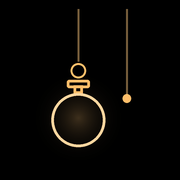
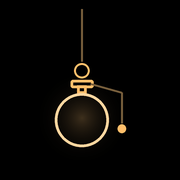
fix: 修掉三个真 bug，并按反馈调整图标与桌面端动画
## Bug 修复（都有回归测试）

1. validateWindow 误判合法时段
   判定条件写成了「结束时间必须早于开始时间」，把「不跨午夜」和「白天时段」
   混为一谈。于是 00:30→07:00、01:00→08:00、00:00→07:00 这些完全正常的配置
   全被判非法（引擎其实跑得好好的，但设置页会弹错误的报错）。
   改为：只有【从白天开始】的不跨午夜时段才拒绝。

2. 忘记密码重置会把每周额度一起刷满
   settlePasswordReset 顺带调了 quotaStore.reset，等于每 24 小时白送 2 次紧急解除，
   把 PRD 2.1.3 的「每周 2 次」从 2 次/周放大到约 14 次/周 —— 这条机制被彻底架空，
   「防止靠重置免费越狱」的设计反而自己开了后门。
   改为：只清空密码，不碰额度。

3. 重置申请期间，密码正确也解除不了，而且取消不掉
   emergencyUnlock 里的 pending 检查排在密码校验之前，用户误点「忘记密码」后
   即使密码记得清清楚楚也要干等 24 小时。改为先验密码，验过了就撤销申请。

4. release/使用说明.txt 被跟踪，但 .gitignore 又忽略了 release/
   规则与事实矛盾，导致以后谁都没法正常更新它。移到 platforms/desktop/ 下。

上面这三个测试原本是「通过」的 —— 因为它们把错误行为固化成了预期断言。已一并改正。

## 图标：让拉绳和灯座连起来

之前右侧是一根与灯泡毫无接触的悬空竖线，读起来像渲染残留而非设计元素，
在 64px 的 favicon 上更是只剩一道噪点。
改为「灯座右缘 → 斜向右下 → 垂直垂下 → 圆坠」，一眼能看出这是这盏灯的拉绳。
圆坠也外移，不再压在灯泡轮廓上。

## 桌面端动画

- 灯泡从实心白圆改成描边 + 柔和内晕，与 Web 版一致（PRD 4.2 的线性风格）
- 补齐拉环与方形灯座，两端视觉统一
- 拉绳兜底 60 秒 → 10 秒：保留仪式感，但不至于让人盯着倒计时干等
- 新增 --preview [秒数] 命令行入口，便于快速查看动画（也便于截图验证）

## 背景图压缩

6 张背景图均为 RGB 无透明通道的照片类内容，PNG 存它们效率极低。
转为 JPEG（≤1920 宽，q85，4:4:4，避免星空细点被糊掉）：5.05 MB → 2.54 MB。

## 验证

- 单元测试 128 项通过（新增 1 项针对 validateWindow 的回归测试）
- 静态检查通过（198 个文件）
- Web 构建通过
- 桌面端构建 0 警告 0 错误；--selftest 266 项断言通过
- 实际截图确认：桌面端灯泡已是描边线性风格；JPEG 背景在运行时能正常加载

Changed region(s): [[0.2778, 0.0278, 0.75, 0.8333]]

diff --git a/tests/sunday-reset.test.js b/tests/sunday-reset.test.js
@@ -13,6 +13,7 @@ import {
   createQuotaStore,
   createSettingsStore,
   dayTypeOf,
+  hashPassword,
   PASSWORD_RESET_COOLDOWN_MS,
   phaseAt,
 } from "../packages/core/src/index.js";
@@ -78,17 +79,34 @@ describe("engine · 忘记密码 24 小时重置冷却", () => {
     return { settingsStore, quotaStore, engine };
   }
 
-  test("申请重置后进入冷却，期间无法紧急解除", async () => {
-    const { settingsStore, quotaStore, engine } = makeEngine();
-    settingsStore.update({ plan: { enabled: true }, emergency: { quotaTotal: 2 } });
+  test("申请重置期间：密码错误仍被拒，密码正确则解除并撤销申请", async () => {
+    // 回归：早先把 pending 检查放在密码校验**之前**，导致误点「忘记密码」的用户
+    // 即使密码记得清清楚楚也要干等 24 小时，而且没有任何取消入口。
+    // 正确行为是：先验密码，验过了就把重置申请撤掉。
+    const settingsStore = createSettingsStore({ storage: createMemoryStorage() });
+    const passwordHash = await hashPassword("1234");
+    settingsStore.update({
+      plan: { enabled: true, sundayAsWeekday: true, windows: { weekday: { start: "22:00", end: "07:00" }, weekend: { start: "01:00", end: "07:00" } } },
+      emergency: { passwordHash, quotaTotal: 2 },
+    });
+    const quotaStore = createQuotaStore({ storage: settingsStore.storage });
     // 2026-10-12 是周一，22:00–07:00 时段生效
+    const engine = createEngine({ settingsStore, quotaStore, now: () => at(2026, 10, 12, 23, 30) });
+
     const info = engine.requestPasswordReset();
     assert.equal(info.pending, true);
     assert.equal(info.remainingMs, PASSWORD_RESET_COOLDOWN_MS);
 
-    const result = await engine.emergencyUnlock("wrong");
-    assert.equal(result.ok, false);
-    assert.equal(result.reason, "reset-pending");
+    // 密码错误 → 被拒，且申请仍然保留（不能靠乱试密码把申请刷掉）
+    const wrong = await engine.emergencyUnlock("0000");
+    assert.equal(wrong.ok, false);
+    assert.equal(wrong.reason, "bad-password");
+    assert.equal(engine.passwordResetInfo().pending, true);
+
+    // 密码正确 → 解除成功，并顺带撤销重置申请
+    const right = await engine.emergencyUnlock("1234");
+    assert.equal(right.ok, true);
+    assert.equal(engine.passwordResetInfo().pending, false);
   });
 
   test("冷却期内重复申请不重置计时", () => {
@@ -99,7 +117,7 @@ describe("engine · 忘记密码 24 小时重置冷却", () => {
     assert.equal(again.remainingMs, PASSWORD_RESET_COOLDOWN_MS);
   });
 
-  test("冷却到期后自动清空密码并重置本周额度", () => {
+  test("冷却到期后只清空密码，不碰每周额度（回归：额度曾被刷满）", () => {
     const { settingsStore, quotaStore, engine } = makeEngine();
     settingsStore.update({ plan: { enabled: false } });
 
@@ -118,8 +136,10 @@ describe("engine · 忘记密码 24 小时重置冷却", () => {
     assert.equal(info.pending, false);
     assert.equal(settingsStore.value.emergency.passwordHash, "");
     assert.equal(settingsStore.value.emergency.passwordResetAt, null);
-    // 本周额度已被重置回满
-    assert.equal(quotaStore.remaining(at(2026, 10, 12, 23, 30)), 2);
+    // 关键断言：额度**没有**被刷回去。
+    // 早先 settlePasswordReset 顺带调了 quotaStore.reset，等于每 24 小时白送 2 次解除，
+    // 把 PRD 2.1.3 的「每周 2 次」从 2 次/周放大到约 14 次/周，机制被架空。
+    assert.equal(quotaStore.remaining(at(2026, 10, 12, 23, 30)), 1);
   });
 
   test("正常快照包含 passwordReset 状态", () => {

diff --git a/packages/core/src/engine.js b/packages/core/src/engine.js
@@ -33,11 +33,18 @@ export function createEngine({ settingsStore, quotaStore, now = () => new Date()
   /** AI 生成的文案，优先级高于本地轮播 */
   let aiText = null;
 
-  // ── 忘记密码兜底（PRD 增强）：等待 24 小时重置密码与本周额度 ──
+  // ── 忘记密码兜底（PRD 增强）：等待 24 小时后重置密码 ──
 
   /**
-   * 惰性结算：若重置申请已过 24 小时冷却，则清空密码、重置本周额度、清除申请。
+   * 惰性结算：若重置申请已过 24 小时冷却，则清空密码并清除申请。
    * 在快照与解除入口处都会被调用，保证"到期即生效"不依赖额外定时器。
+   *
+   * ⚠ 这里**刻意不动每周额度**。
+   * 早先的实现顺带调了 `quotaStore.reset(at)`，等于每 24 小时白送 2 次紧急解除，
+   * 把 PRD 2.1.3 的「每周 2 次」从 2 次/周放大到约 14 次/周，这条机制被彻底架空
+   * ——「防止靠重置免费越狱」的设计反而自己开了后门。
+   * 忘记密码只是拿回「设置新密码」的能力，额度该扣的已经扣了。
+   *
    * @returns {boolean} 是否刚完成了一次结算。
    */
   function settlePasswordReset(at) {
@@ -46,7 +53,6 @@ export function createEngine({ settingsStore, quotaStore, now = () => new Date()
     if (at.getTime() - requestedAt < PASSWORD_RESET_COOLDOWN_MS) return false;
 
     settingsStore.update({ emergency: { passwordResetAt: null, passwordHash: "" } });
-    quotaStore.reset(at);
     return true;
   }
 
@@ -170,10 +176,7 @@ export function createEngine({ settingsStore, quotaStore, now = () => new Date()
      */
     async emergencyUnlock(password) {
       const settings = settingsStore.value;
-
       const at = now();
-      // 重置冷却期间禁止解除（否则"忘记密码"就成了免费越狱通道）
-      if (passwordResetInfo(at).pending) return { ok: false, reason: "reset-pending" };
 
       if (!settings.emergency.passwordHash) return { ok: false, reason: "no-password" };
 
@@ -186,6 +189,15 @@ export function createEngine({ settingsStore, quotaStore, now = () => new Date()
 
       const valid = await verifyPassword(password, settings.emergency.passwordHash);
       if (!valid) return { ok: false, reason: "bad-password" };
+
+      // 密码正确 → 说明用户其实记得密码，顺带撤销可能存在的重置申请。
+      //
+      // ⚠ 早先把 pending 检查放在密码校验**之前**，导致误点「忘记密码」的用户
+      // 即使密码记得清清楚楚也要干等 24 小时，而且没有任何取消入口。
+      // 现在的顺序是：先验密码，验过了就把申请撤掉。
+      if (settingsStore.value.emergency?.passwordResetAt) {
+        settingsStore.update({ emergency: { passwordResetAt: null } });
+      }
 
       const consumed = quotaStore.consume(at);
       if (!consumed.ok) return { ok: false, reason: "quota-exhausted" };
@@ -200,7 +212,7 @@ export function createEngine({ settingsStore, quotaStore, now = () => new Date()
       dismissedWindowKey = null;
     },
 
-    /** 忘记密码：申请 24 小时后重置密码与本周额度 */
+    /** 忘记密码：申请 24 小时后重置密码（不影响每周额度） */
     requestPasswordReset() {
       return requestPasswordReset(now());
     },

diff --git a/tests/core.test.js b/tests/core.test.js
@@ -261,9 +261,24 @@ describe("schedule · 睡眠计划与相位", () => {
     assert.deepEqual(validateWindow({ start: "23:00", end: "07:00" }), []);
     assert.equal(validateWindow({ start: "23:00", end: "23:00" }).length, 1);
     assert.ok(validateWindow({ start: "23:55", end: "00:05" })[0].includes("30 分钟"));
-    // 白天的非跨午夜时段必须被拒（熄灯本质是"晚上睡到早上"）
-    assert.ok(validateWindow({ start: "07:00", end: "12:00" })[0].includes("跨越午夜"));
+    // 白天开始的非跨午夜时段必须被拒（熄灯本质是"晚上睡到早上"）
+    assert.ok(validateWindow({ start: "07:00", end: "12:00" })[0].includes("夜间"));
     assert.ok(validateWindow({ start: "abc", end: "07:00" }).length > 0);
+  });
+
+  test("validateWindow 放行凌晨开始的时段（回归：曾经全部被误判为非法）", () => {
+    // 00:30 → 07:00 虽然不跨午夜，但同样属于"凌晨睡到早上"，是正常配置。
+    // 早先的判定把"不跨午夜"和"白天时段"混为一谈，把这些全判成非法 ——
+    // 引擎其实能正常工作，但用户在设置页会看到一个错误的报错。
+    const legal = [["00:30", "07:00"], ["01:00", "08:00"], ["00:00", "07:00"], ["05:00", "09:00"]];
+    for (const [start, end] of legal) {
+      assert.deepEqual(validateWindow({ start, end }), [], `${start} → ${end} 应当被放行`);
+    }
+    // 白天开始的时段依然要被拦下
+    const illegal = [["09:00", "11:00"], ["06:00", "12:00"], ["13:00", "15:00"]];
+    for (const [start, end] of illegal) {
+      assert.ok(validateWindow({ start, end }).length > 0, `${start} → ${end} 应当被拒绝`);
+    }
   });
 });
 

diff --git a/packages/core/src/schedule.js b/packages/core/src/schedule.js
@@ -10,6 +10,12 @@
 
 import { DAY_TYPE, PHASE } from "./constants.js";
 import { isMakeupWorkday } from "./holidays.js";
+
+/**
+ * 夜间结束时刻（早上 6 点）。
+ * 在它之前开始的时段，即使不跨午夜也依然属于"夜间熄灯"（如 00:30 → 07:00）。
+ */
+const NIGHT_END_MINUTES = 6 * 60;
 import {
   MINUTES_PER_DAY,
   MS_MINUTE,
@@ -180,10 +186,15 @@ export function validateWindow({ start, end }) {
     return problems;
   }
 
-  // 熄灯模式必须是"晚上睡到早上"：结束时间必须早于开始时间（跨越午夜）。
-  // 白天的时段（如 07:00→12:00）不符合产品语义，直接判非法。
-  if (endMinutes > startMinutes) {
-    problems.push("熄灯时段必须跨越午夜（结束时间应早于开始时间，如 23:00 → 次日 07:00）");
+  // 熄灯模式的语义是"晚上睡到早上"。不跨午夜的时段里，**只有从凌晨开始的才合法**
+  // —— 00:30 → 07:00 同样是"凌晨睡到早上"，是很正常的配置。
+  //
+  // ⚠ 早先这里只写了 `endMinutes > startMinutes`，把"不跨午夜"和"白天时段"混为一谈，
+  // 导致 00:30→07:00、01:00→08:00、00:00→07:00 这些完全合法的配置被误判为非法
+  // （引擎其实能正常工作，但设置页会弹错误的报错）。
+  // 现在只有【从白天开始】的不跨午夜时段才判非法，如 09:00→11:00、07:00→12:00。
+  if (endMinutes > startMinutes && startMinutes >= NIGHT_END_MINUTES) {
+    problems.push("熄灯时段应覆盖夜间（如 23:00 → 次日 07:00，或 00:30 → 07:00）");
     return problems;
   }
 

diff --git a/scripts/make-assets.py b/scripts/make-assets.py
@@ -88,11 +88,13 @@ def draw_translucent(canvas, painter):
 
 
 def render_lamp(size, inset=0.0, transparent=False):
-    """V6（定稿方向）：旧版灯泡原样，右侧加一根独立拉绳。
+    """带拉绳的灯泡。
 
-    灯泡本体 = 旧版（顶部悬挂绳 + 圆环 + 方形连接件 + 正圆球体，竖居中细线）；
-    拉绳 = 右侧独立一根，顶端与灯泡顶部同高（都"吸在顶部"），末端小圆坠。
-    灯泡整体略左移，保持整图居中平衡。
+    灯泡本体（顶部悬挂绳 + 圆环 + 方形连接件 + 正圆球体）沿用原设计；
+    右侧拉绳**从灯座伸出**再垂下，末端小圆坠 —— 这样它才像"这盏灯的拉绳"。
+
+    ⚠ 拉绳必须与灯泡本体相连。早先它是一根与灯泡毫无接触的悬空竖线，
+    读起来像渲染残留而不是设计元素，在 64px 的 favicon 上更是只剩一道噪点。
     """
     big = size * SUPERSAMPLE
     background = (0, 0, 0, 0) if transparent else (0, 0, 0, 255)
@@ -100,8 +102,9 @@ def render_lamp(size, inset=0.0, transparent=False):
 
     s = 1.0 - inset
     cx = big / 2.0
-    # 灯泡整体左移，给右侧拉绳留出空间（整图仍居中）
-    bulb_cx = cx - big * 0.065 * s
+    # 灯泡略左移，把右侧空间让给拉绳；位移量按"整组内容的视觉包围盒"估算，
+    # 而不是简单对半分 —— 细拉绳的视觉重量远小于灯泡。
+    bulb_cx = cx - big * 0.045 * s
 
     # 极淡光晕：只让球体有"亮着"的暗示（沿用旧版做法，克制）
     canvas = Image.alpha_composite(
@@ -151,20 +154,30 @@ def render_lamp(size, inset=0.0, transparent=False):
         width=stroke,
     )
 
-    # ── 右侧独立拉绳（顶端与灯泡顶部同高，末端小圆坠）──
-    # 拉绳长度 = 整体结构高 × 0.618（黄金分割长段）≈ 0.475 → 绳尾 y≈0.525
-    # 悬挂绳 : 拉绳 = 0.382 : 0.618 = 0.618（黄金比）
-    cord_x = cx + big * 0.205 * s
-    cord_y0 = big * 0.05
-    cord_y1 = big * 0.525 * s
-    draw.line([(cord_x, cord_y0), (cord_x, cord_y1)], fill=CORD + (255,), width=thin)
+    # ── 拉绳：从灯座右缘伸出 → 斜向右下 → 垂直垂下 → 圆坠 ──
+    # 起点取灯座右缘再往里缩一个 stroke，让绳头插进灯座描边内部，看不出接缝。
+    base_right = bulb_cx + base_w / 2
+    base_mid_y = base_top + base_h / 2
+    # 拉绳到球心的水平距离必须让珠子**完全避开**球体轮廓：
+    #   珠左缘 = cord_x − bead_r 要大于 bulb_r(0.150)，
+    #   否则珠子会压在灯泡边上，小尺寸下糊成一团。
+    cord_x = bulb_cx + big * 0.222 * s
+    cord_knee_y = base_mid_y + big * 0.048 * s
+    cord_tail_y = big * 0.685 * s
+
+    draw.line(
+        [(base_right - stroke, base_mid_y), (cord_x, cord_knee_y)],
+        fill=CORD + (255,),
+        width=thin,
+    )
+    draw.line([(cord_x, cord_knee_y), (cord_x, cord_tail_y)], fill=CORD + (255,), width=thin)
+
+    # 末端圆坠
     bead_r = big * 0.024 * s
-    bead_y = cord_y1 + big * 0.022 * s
+    bead_y = cord_tail_y + bead_r * 1.25
     draw.ellipse(
         [cord_x - bead_r, bead_y - bead_r, cord_x + bead_r, bead_y + bead_r],
         fill=LAMP_SOFT + (255,),
-        outline=LAMP_SOFT + (255,),
-        width=thin,
     )
 
     return canvas.resize((size, size), Image.LANCZOS)

diff --git a/platforms/desktop/Views/SettingsWindow.axaml.cs b/platforms/desktop/Views/SettingsWindow.axaml.cs
@@ -24,12 +24,14 @@ public partial class SettingsWindow : Window
     private static readonly (string Id, string Name, string? Uri)[] BackgroundOptions =
     [
         ("dark", "深色（默认）", null),
-        ("bg-aurora-1", "极光 · 水面倒影", "avares://Xideng.Desktop/assets/backgrounds/bg-aurora-1.png"),
-        ("bg-aurora-2", "极光 · 蓝紫渐变", "avares://Xideng.Desktop/assets/backgrounds/bg-aurora-2.png"),
-        ("bg-star-1", "星空 · 银河核心", "avares://Xideng.Desktop/assets/backgrounds/bg-star-1.png"),
-        ("bg-star-2", "星空 · 银河横跨", "avares://Xideng.Desktop/assets/backgrounds/bg-star-2.png"),
-        ("bg-star-3", "星空 · 密集繁星", "avares://Xideng.Desktop/assets/backgrounds/bg-star-3.png"),
-        ("bg-firefly-1", "萤火虫 · 森林", "avares://Xideng.Desktop/assets/backgrounds/bg-firefly-1.png"),
+        // 背景图用 JPEG 而非 PNG：这些图全是 RGB 无透明通道、且是照片类内容，
+        // PNG 存它们效率极低（最有代表性的一张 2.7 MB，转 JPEG 后 0.8 MB，观感无差别）。
+        ("bg-aurora-1", "极光 · 水面倒影", "avares://Xideng.Desktop/assets/backgrounds/bg-aurora-1.jpg"),
+        ("bg-aurora-2", "极光 · 蓝紫渐变", "avares://Xideng.Desktop/assets/backgrounds/bg-aurora-2.jpg"),
+        ("bg-star-1", "星空 · 银河核心", "avares://Xideng.Desktop/assets/backgrounds/bg-star-1.jpg"),
+        ("bg-star-2", "星空 · 银河横跨", "avares://Xideng.Desktop/assets/backgrounds/bg-star-2.jpg"),
+        ("bg-star-3", "星空 · 密集繁星", "avares://Xideng.Desktop/assets/backgrounds/bg-star-3.jpg"),
+        ("bg-firefly-1", "萤火虫 · 森林", "avares://Xideng.Desktop/assets/backgrounds/bg-firefly-1.jpg"),
     ];
 
     /// <summary>供 XAML 设计器 / 加载器使用。</summary>

diff --git a/platforms/desktop/App.axaml.cs b/platforms/desktop/App.axaml.cs
@@ -48,9 +48,42 @@ public partial class App : Application
             // 启动心跳：由相位驱动熄灯窗口的显隐与前台进程监听
             _coordinator.Start();
             settingsWindow.Show();
+
+            // --preview [秒数]：启动后立刻进一次熄灯预览（默认 12 秒）。
+            // 等价于托盘菜单里的「立即预览熄灯」，但可以从命令行/脚本触发，
+            // 便于快速查看入场动画与黑屏效果，也便于自动化截图验证。
+            var previewSeconds = PreviewSeconds(desktop.Args);
+            if (previewSeconds > 0)
+            {
+                _coordinator.StartBlackoutPreview(TimeSpan.FromSeconds(previewSeconds));
+            }
         }
 
         base.OnFrameworkInitializationCompleted();
+    }
+
+    /// <summary>
+    /// 解析 <c>--preview [秒数]</c>。未指定时返回 0（不预览）；
+    /// 只写 <c>--preview</c> 不带数字时默认 12 秒。
+    /// </summary>
+    private static double PreviewSeconds(string[]? args)
+    {
+        if (args is null) return 0;
+
+        for (var index = 0; index < args.Length; index++)
+        {
+            if (!string.Equals(args[index], "--preview", StringComparison.OrdinalIgnoreCase)) continue;
+            if (index + 1 < args.Length
+                && double.TryParse(args[index + 1], System.Globalization.NumberStyles.Float,
+                    System.Globalization.CultureInfo.InvariantCulture, out var seconds)
+                && seconds > 0)
+            {
+                return seconds;
+            }
+            return 12;
+        }
+
+        return 0;
     }
 
     /// <summary>系统托盘：图标 + 右键菜单 + 左键唤起设置。</summary>

diff --git a/platforms/desktop/Views/BlackoutWindow.axaml.cs b/platforms/desktop/Views/BlackoutWindow.axaml.cs
@@ -40,7 +40,10 @@ public partial class BlackoutWindow : Window
     private double _dragStartY;
     private double _pullOffset;
     private const double PullMaxOffset = 120.0;   // 拉到底的位移阈值（DIP）
-    private const int PullTimeoutSeconds = 60;    // 60 秒不拉 → 灯自动熄灭（PRD 增强）
+    // 不拉绳时的兜底：10 秒后灯自动熄灭。
+    // PRD 4.3 写的入场动画是"约 1.5 秒"，拉绳是为仪式感加的一步 ——
+    // 但兜底必须短，否则用户会盯着倒计时干等，把仪式感变成卡顿。
+    private const int PullTimeoutSeconds = 10;
     private DispatcherTimer? _pullTimer;           // 60 秒超时倒计时
     private int _pullSecondsLeft;
     private DispatcherTimer? _snapTimer;           // 未拉到底时的回弹动画

diff --git a/platforms/desktop/README.md b/platforms/desktop/README.md
@@ -49,6 +49,12 @@ dotnet run
 dotnet run -- --selftest
 # 或直接运行已构建的程序集：
 dotnet bin/Debug/net10.0/Xideng.Desktop.dll --selftest
+
+# 启动后立刻进一次熄灯预览（默认 12 秒）：
+# 用来快速查看入场动画与黑屏效果，也便于自动化截图验证。
+# 等价于托盘菜单里的「立即预览熄灯」。
+dotnet run -- --preview
+dotnet run -- --preview 30      # 指定秒数
 ```
 
 自检会把报告同时写到用户数据目录：
